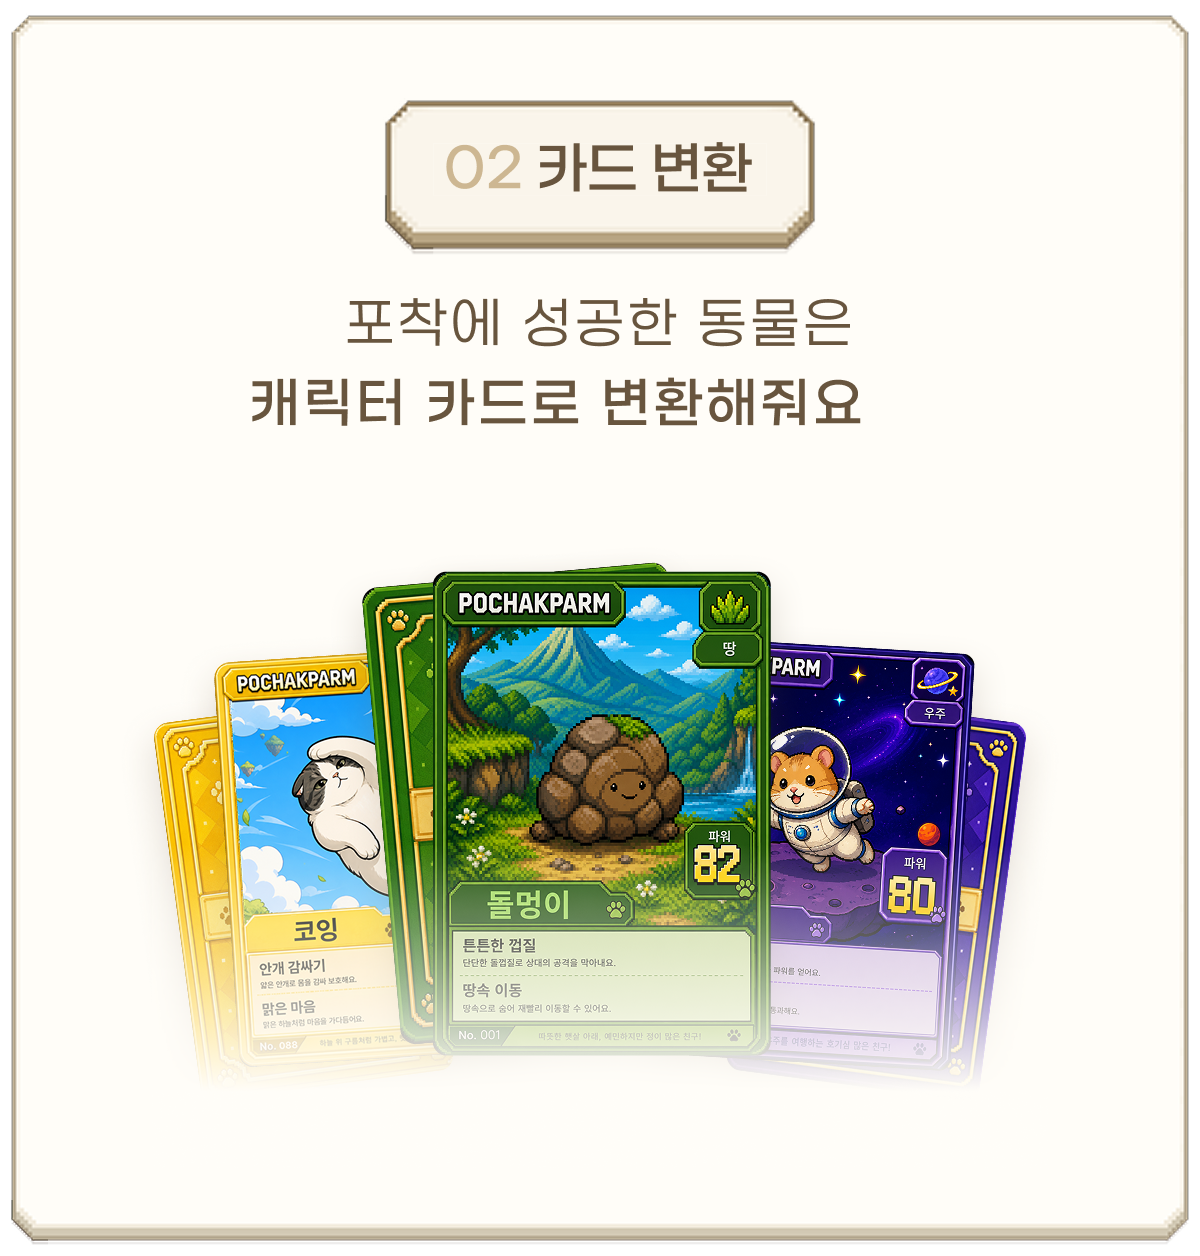
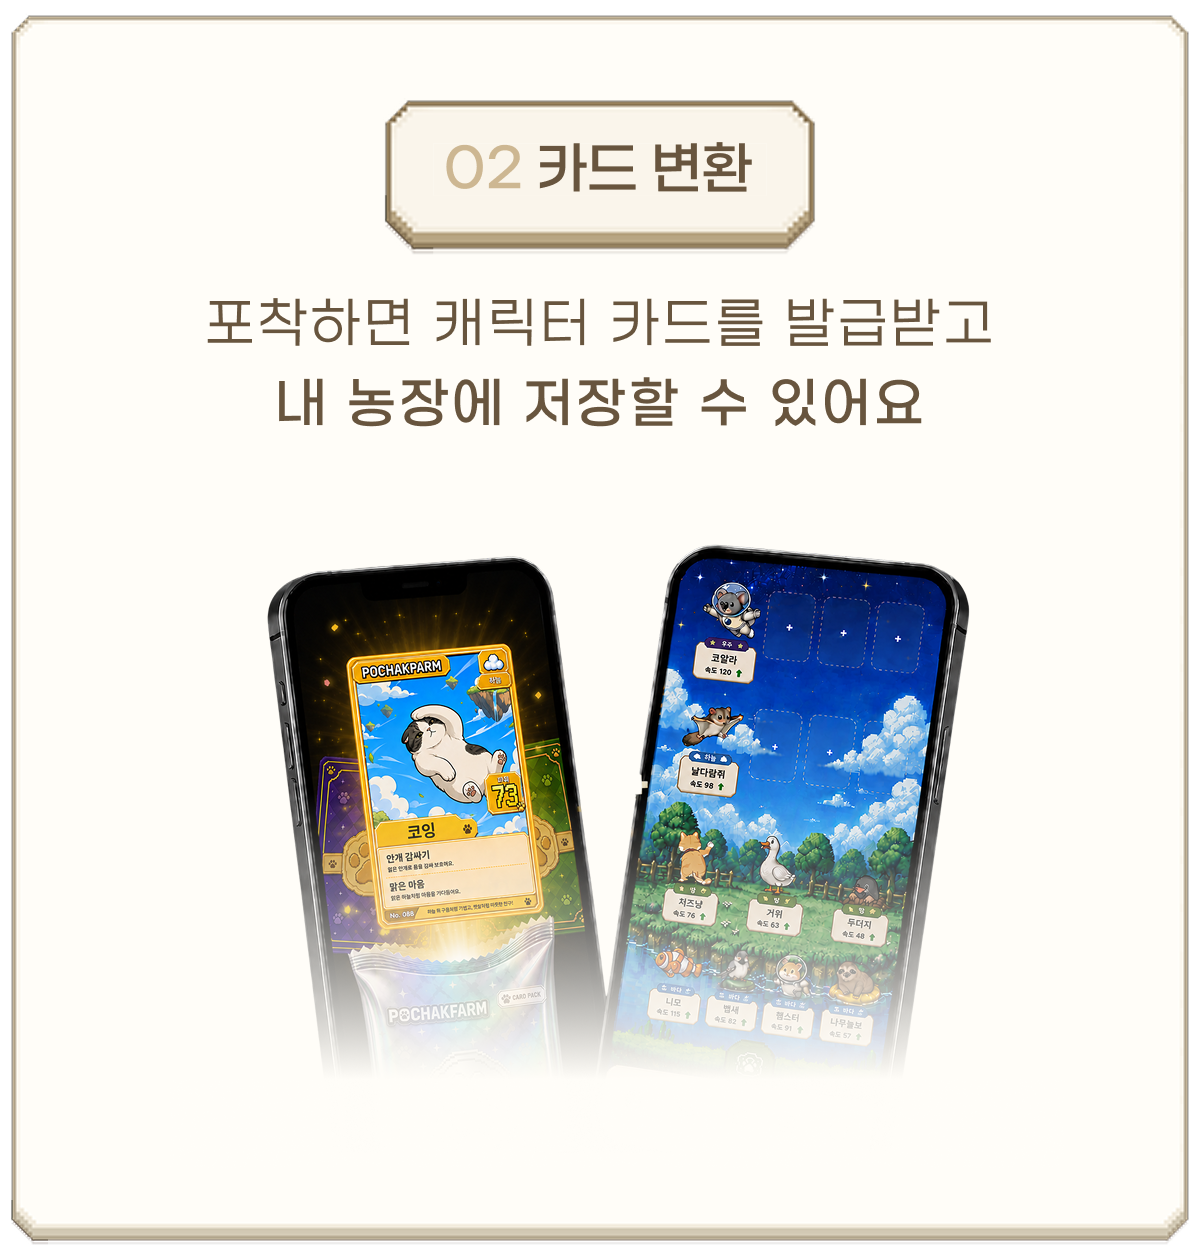
캐러셀 페이지와 첫화면 수정

Changed region(s): [[0.1233, 0.4347, 0.8633, 0.8694], [0.1542, 0.2174, 0.8325, 0.3416]]

diff --git a/src/app/App.tsx b/src/app/App.tsx
@@ -30,6 +30,7 @@ import imgIntroLimitedText from "../assets/ui/intro-limited-text.png";
 import imgIntroRewardText from "../assets/ui/intro-reward-text.png";
 import imgIntroImageGuideButton from "../assets/ui/intro-image-guide-button.png";
 import imgImageGuideModal from "../assets/ui/image-guide-modal.png";
+import imgIntroPreregistrationRewards from "../assets/ui/intro-preregistration-rewards.png";
 import imgIntroFooter from "../assets/ui/intro-footer.png";
 import imgCtaImageSaveButton from "../assets/ui/cta-image-save-button.png";
 import imgCtaRewardCard from "../assets/ui/cta-reward-card.png";
@@ -2629,7 +2630,7 @@ function ClassicV2Version() {
       <style>{KEYFRAMES}</style>
 
       <main
-        className="relative flex min-h-[100dvh] w-full max-w-[397px] flex-col items-center px-[14px] pb-4"
+        className="relative flex min-h-[100dvh] w-full max-w-[397px] flex-col items-center px-[14px]"
         style={{
           backgroundImage: `url("${imgIntroBg}")`,
           backgroundPosition: "top center",
@@ -2901,6 +2902,13 @@ function ClassicV2Version() {
         {phase === "pack" && (
           <CardPackPanel onOpen={handleOpenPack} />
         )}
+
+        <img
+          src={imgIntroPreregistrationRewards}
+          alt="사전예약 보상 안내"
+          className="-mx-[14px] mt-4 block w-[calc(100%+28px)] max-w-none shrink-0"
+          draggable={false}
+        />
       </main>
 
       <footer className="relative w-full max-w-[397px] shrink-0">